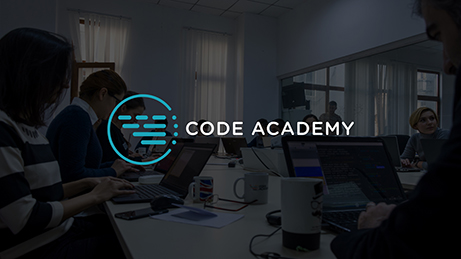
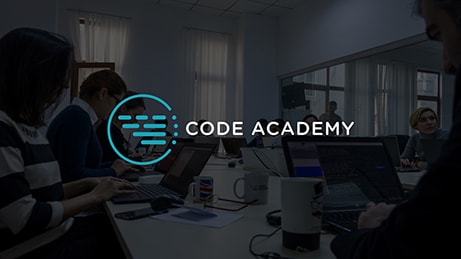
Compressed images, make wait welcome page until resource loading.

Changed region(s): [[0.2126, 0.3398, 0.3948, 0.6486], [0.243, 0.556, 0.2733, 0.6178], [0.2126, 0.5251, 0.243, 0.556]]

diff --git a/resources/views/welcome.blade.php b/resources/views/welcome.blade.php
@@ -4,7 +4,7 @@
 
 @section('content')
     <div layout="column" layout-align="center center"
-         style="width:100%; height: 100%; background-image: url('{{ URL::to('/') }}/images/welcome_background.jpg'); background-size: cover">
+         style="width:100%; height: 100%; background-image: url('{{ URL::to('/') }}/images/welcome_background.jpg'); background-size: cover" ng-cloak>
         <img src="{{URL::to('/')}}/images/ca_logo.png" style="width: 400px">
         <div layout="row" layout-align="center" style="margin-top: 40px">
             <md-button class="md-raised" ng-click="changePath('login')" onclick="location.href='/login'">Login
